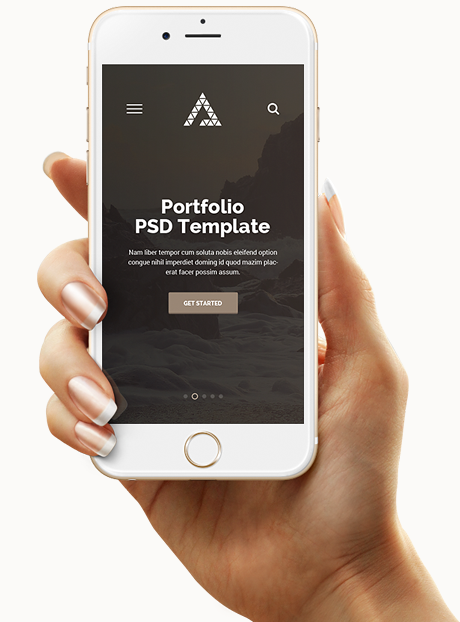
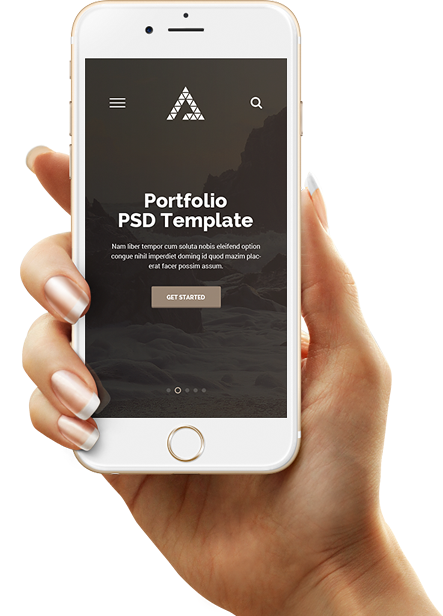
Add files via upload

diff --git a/css/main.css b/css/main.css
@@ -84,6 +84,7 @@ header{
 .header-text{
 	font-family: 'Montserrat', sans-serif;
 	font-weight: 300;
+	line-height: 1.4;
 	width: 45%;
 	margin-top: 25px;
 }
@@ -99,7 +100,7 @@ header{
 .header-button:hover{
 	background: #c7b299;
 	border-bottom: none;
-	margin-top: 53px;
+	border-top: 3px solid transparent;
 }
 .header-slides{
 	width: 70px;
@@ -274,10 +275,14 @@ header{
 }
 .our-projects-links ul li {
  margin-right: 10px;
+ transition: all ease-in .2s;
 }
 .our-projects-links ul li:hover a{
  color: #fff;
  background: #998675;
+}
+.our-projects-links ul li:hover{
+	transform: translateY(-5px);
 }
 .our-projects-links ul li a{
  color: #8c8c8c;
@@ -298,15 +303,19 @@ header{
 .our-projects-item:hover .triangle{
  border-bottom-color:#362f2d;
 }
-.our-projects-item:hover .our-projects-item-img::before{
- content: "";
+.our-projects-item-img::before{
  display: block;
+ content: "";
  width: 100%;
  height: 100%;
  left: 0;
  top: 0;
  position: absolute;
  background-color: #000;
+ opacity: 0;
+ transition: all ease-in 1s;
+}
+.our-projects-item:hover .our-projects-item-img::before{
  opacity: 0.7;
 }
 .our-projects-item-img{
@@ -400,7 +409,7 @@ header{
 .our-projects-button:hover{
  background: #c7b299;
  border-bottom: none;
- margin-top: 43px;
+ border-top: 3px solid transparent;
 }
 .our-projects-item-links{
  position: absolute;
@@ -420,9 +429,11 @@ header{
  color: #fff;
  font-size: 30px;
  text-decoration: none;
+ transition: all ease-in 1s;
 }
 .our-projects-item-links a:hover{
  color: #c7b299;
+ transform: scale(2);
 }
 .our-projects-item-links a:last-child{
  padding-left: 30px;
@@ -653,7 +664,7 @@ header{
 .recent-post-block-slider i:hover{
 	color: #cab79f;
 }
-.recent-post-block-item:hover .recent-post-block-img::before{
+.recent-post-block-img::before{
 	content: "";
 	position: absolute;
 	top: 0;
@@ -661,6 +672,10 @@ header{
 	height: 100%;
 	width: 100%;
 	background-color: #000;
+	opacity: 0;
+	transition: all linear .5s;
+}
+.recent-post-block-item:hover .recent-post-block-img::before{
 	opacity: 0.7;
 }
 .recent-post-block-item:hover .recent-post-block-content{
@@ -809,6 +824,7 @@ header{
 .footer-img{
 	background-size: cover;
 	height: 100px;
+	width: 100%;
 }
 
 /* END */

diff --git a/css/media.css b/css/media.css
@@ -25,6 +25,9 @@
   .header-nav nav ul li a{
     font-size: 12px;
   }
+  .header-text{
+    width: 75%;
+  }
   .servicse-item-title{
     font-size: 18px;
   }
@@ -160,18 +163,15 @@
     align-items: center;
     padding: 10px 20px 0;
   }
-  
-  .header-nav nav ul{
-    padding-right: 50px;
-    flex-direction: column;
+  nav{
     display: none;
   }
-  .header-nav nav ul li{
+  /* .header-nav nav ul li{
     margin-bottom: 10px;
   }
   .header-nav nav ul li:nth-child(9){
     margin-left: 10px;
-  }
+  } */
   .header-content-block{
     margin-top: -66px;
   }
@@ -188,7 +188,7 @@
 		font-size: 32px;
 		color: #fff;
   }
-  .mbl-menu:hover .header-nav nav ul{
+  .mbl-menu:focus nav{
     display: block;
   }
   .services{

diff --git a/index.html b/index.html
@@ -16,8 +16,8 @@
 	<header>
 		<div class="header-nav container">
 			<div class="logo">Waxom</div>
+			<button class="mbl-menu"><i class="fas fa-bars"></i></button>
 			<nav>
-				<button class="mbl-menu"><i class="fas fa-bars"></i></button>
 				<ul>
 					<li><a href="#">Home</a></li>
 					<li><a href="#">About Us</a></li>
